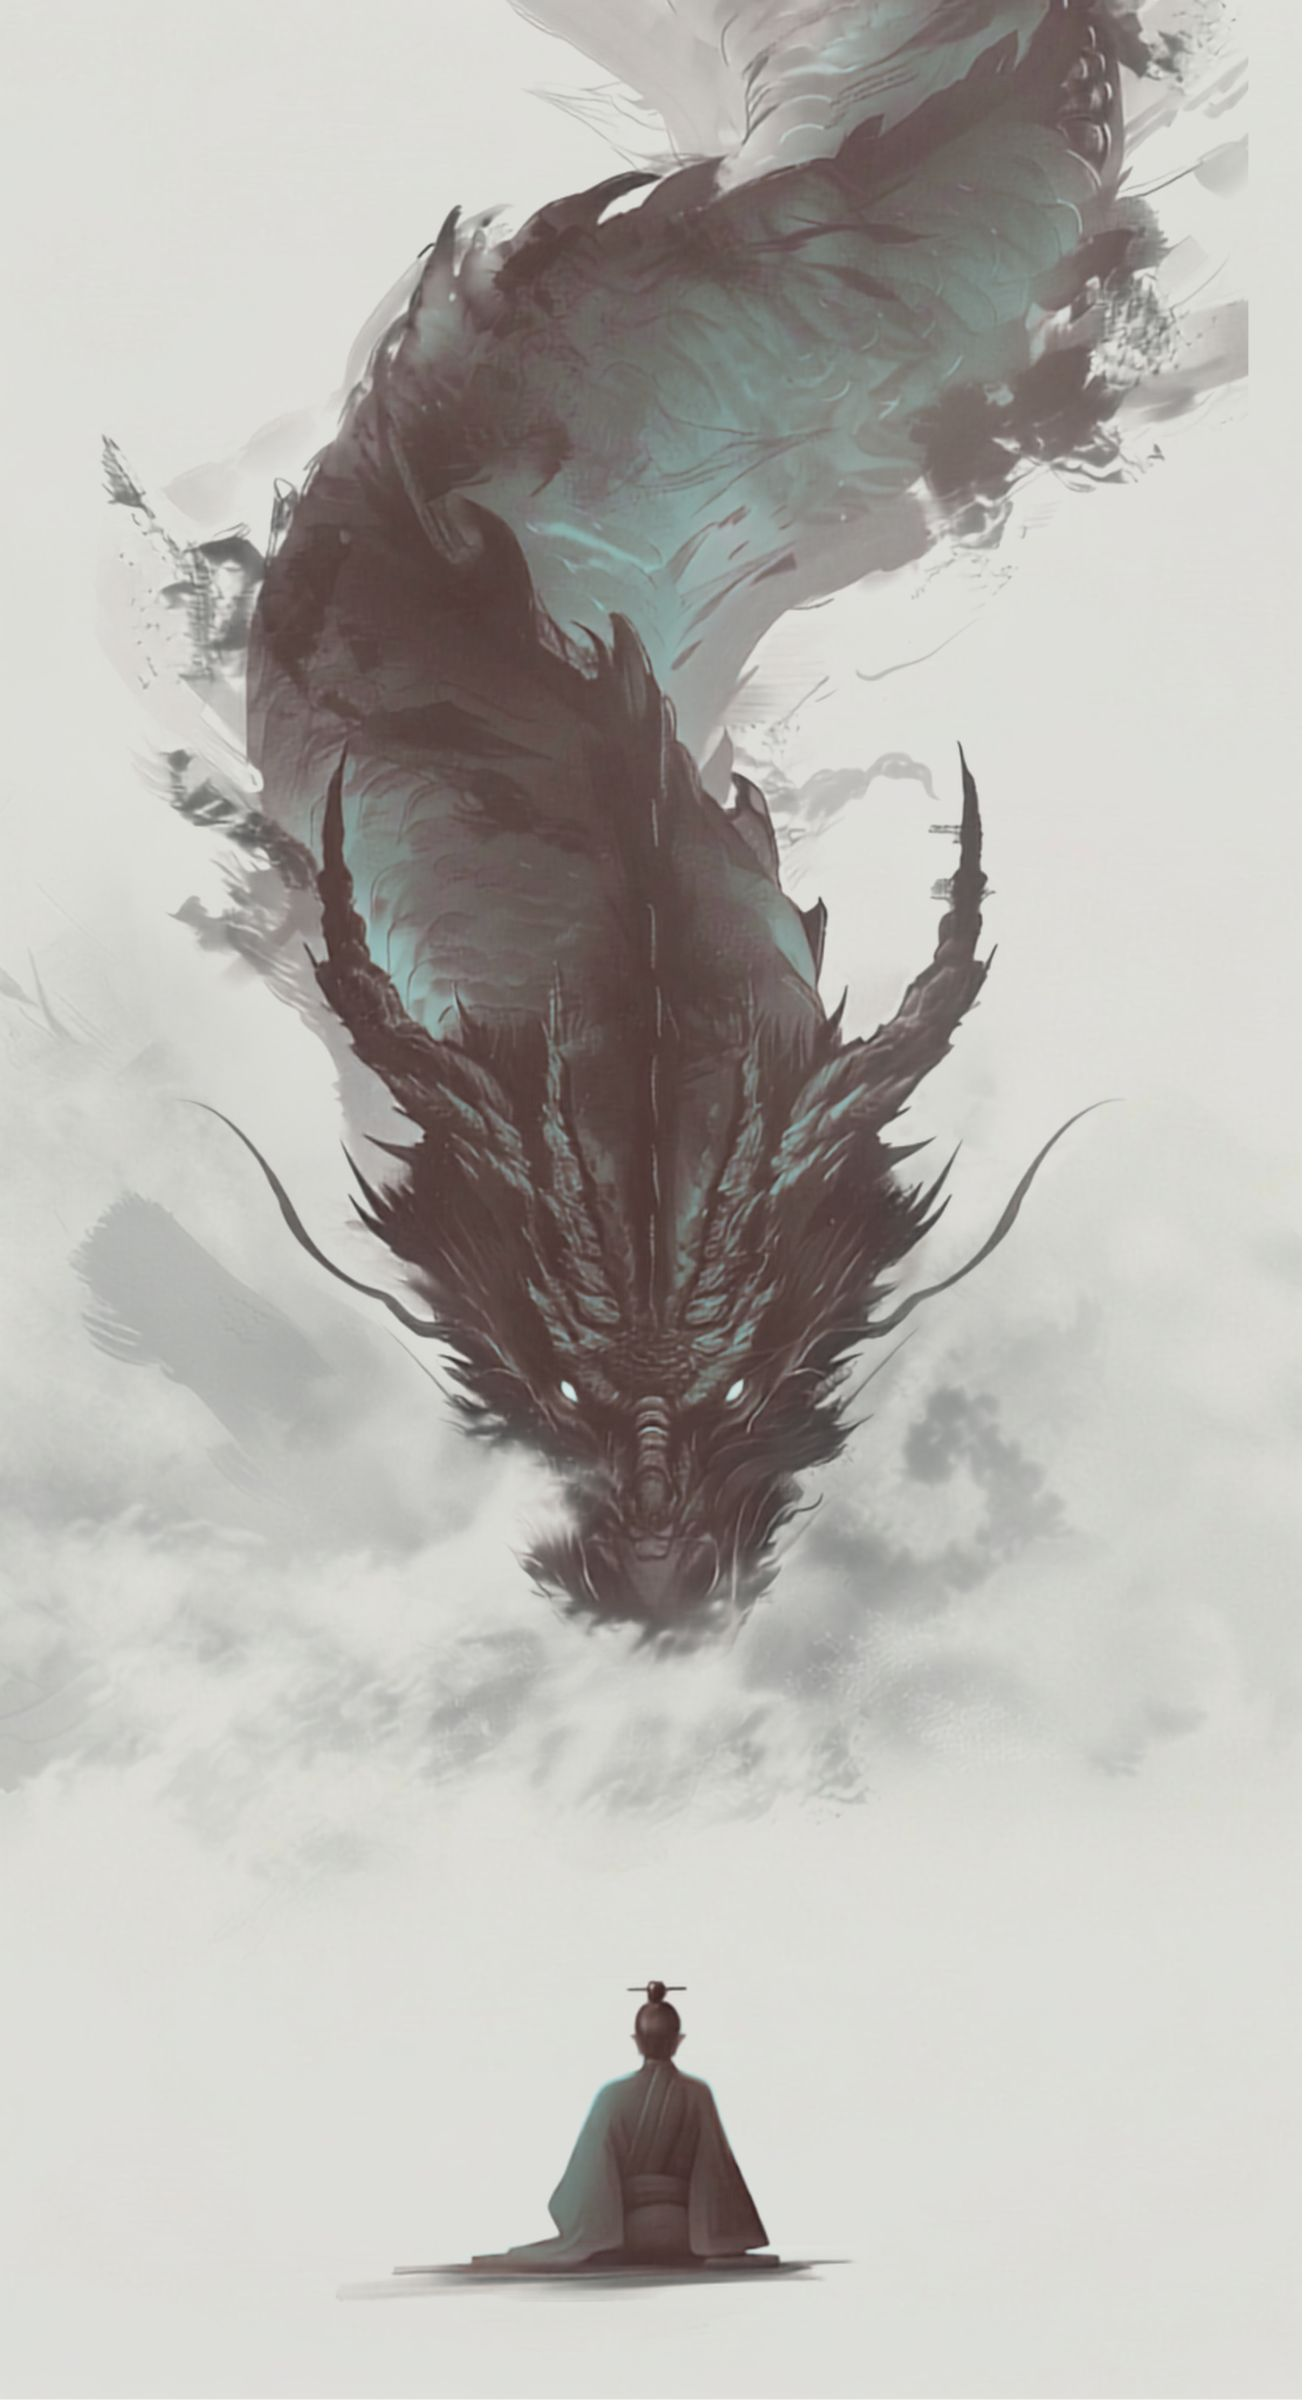
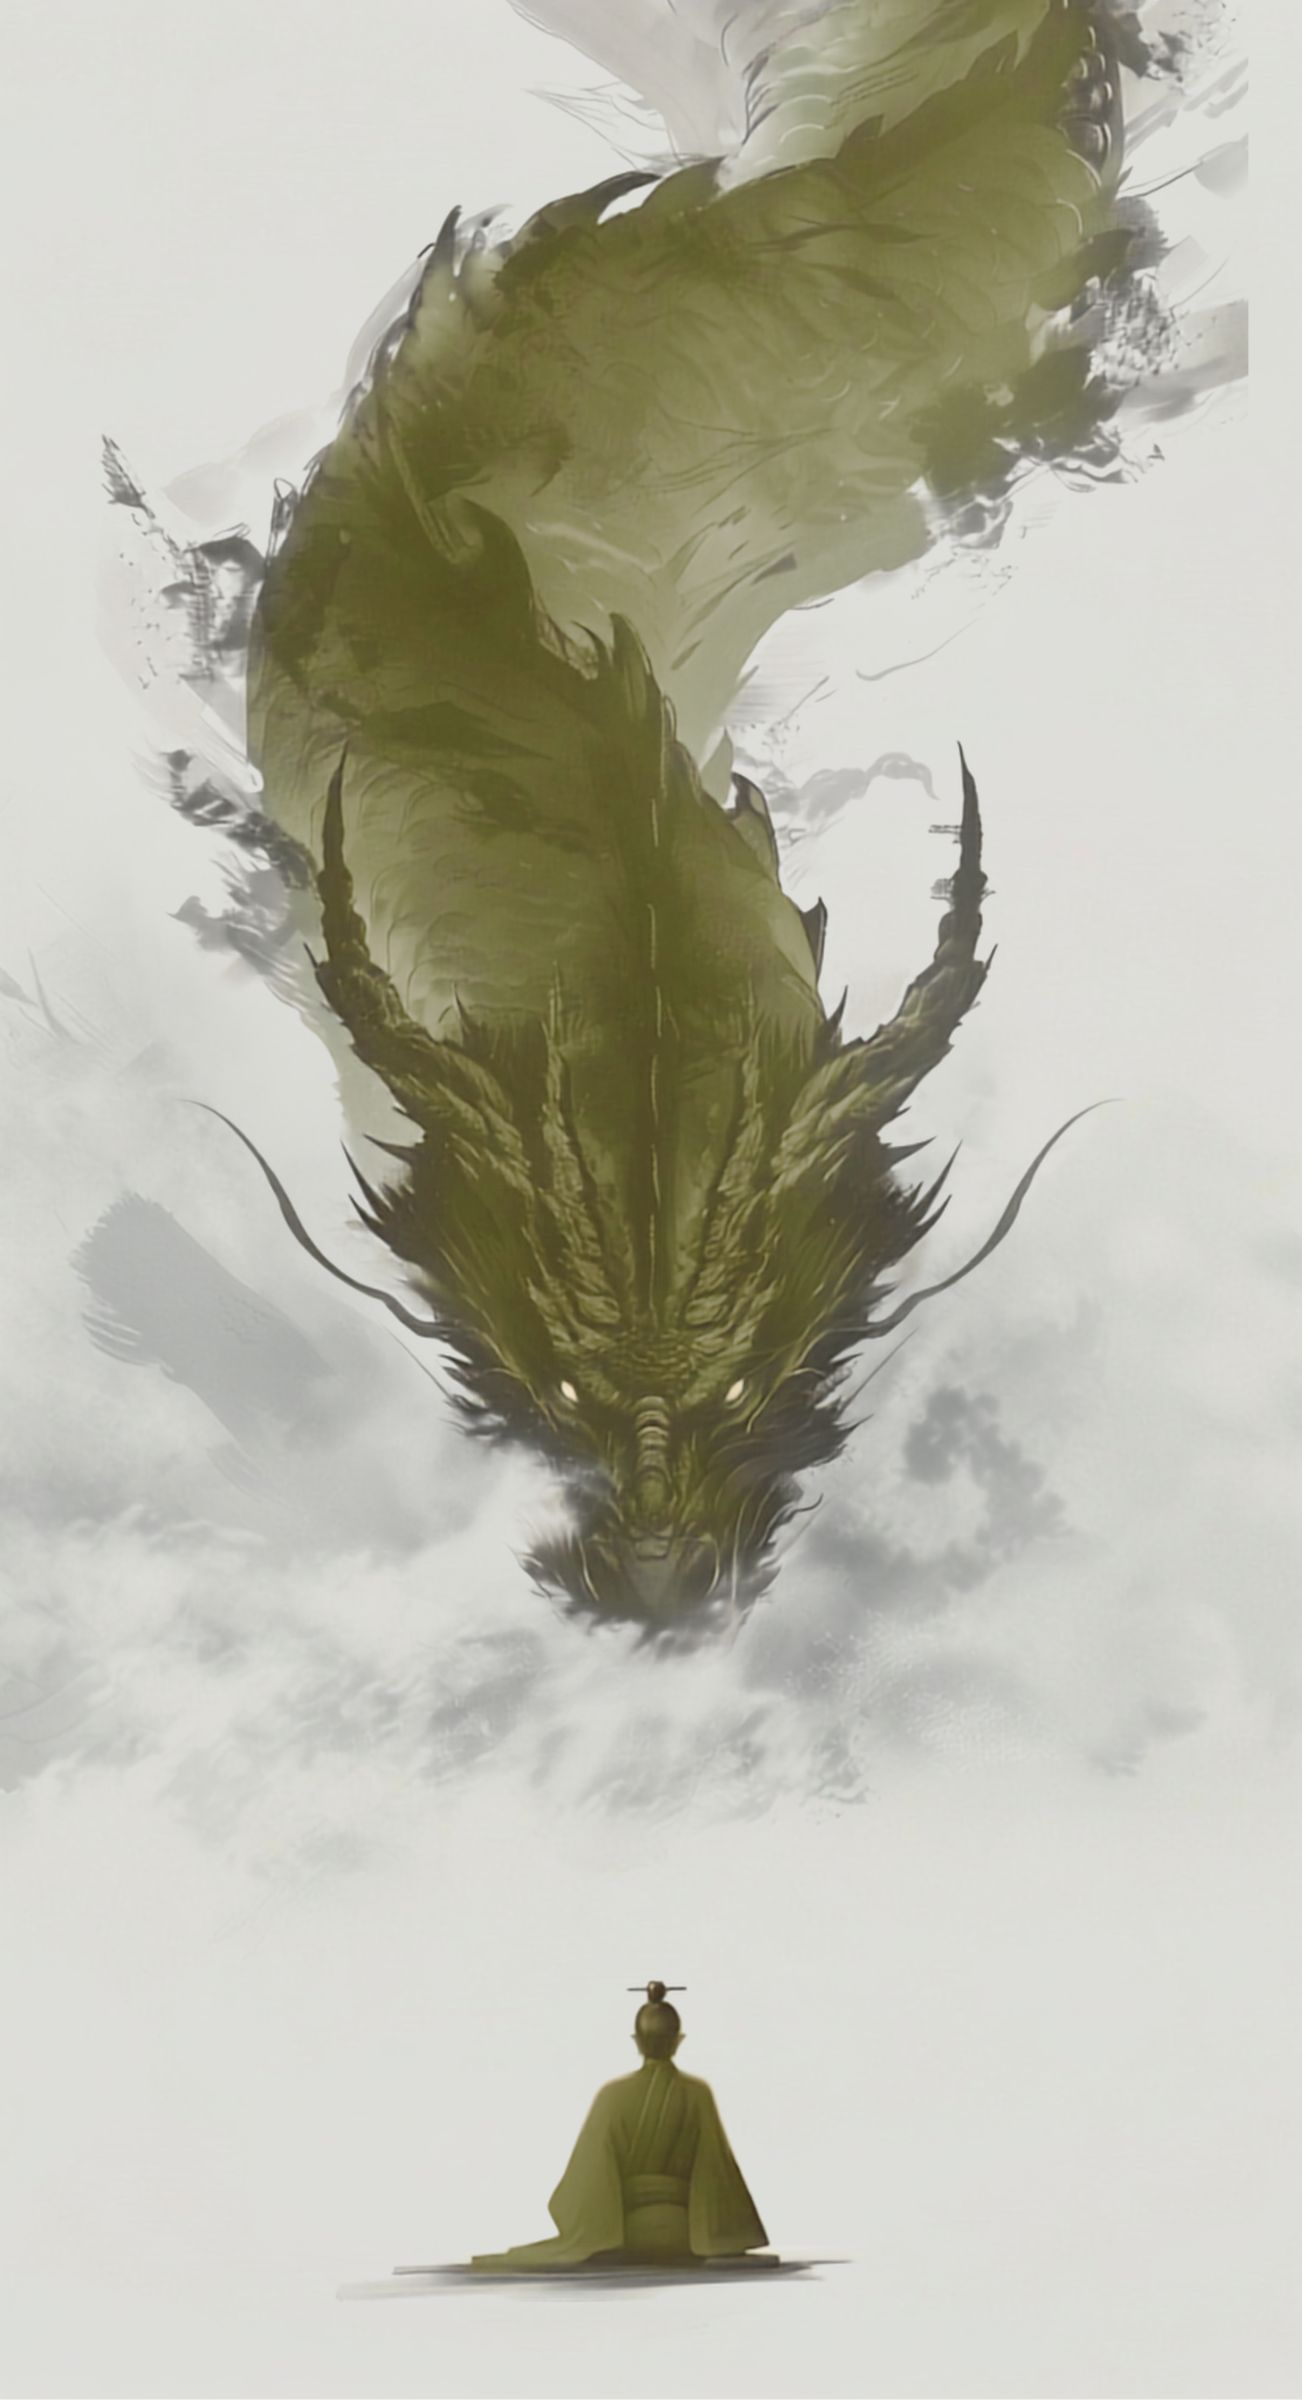
ultimate fix

Changed region(s): [[0.2181, 0.0, 0.8412, 0.625], [0.405, 0.8438, 0.5608, 0.9688]]

diff --git a/app/globals.css b/app/globals.css
@@ -20,12 +20,12 @@ body{ font-family:var(--serif); color:var(--ink); background:var(--mist);
 .dragons{ position:fixed; inset:0; z-index:-3; }
 .drag{ position:absolute; inset:0; background-size:cover; background-position:center top;
   opacity:0; transition:opacity 1s ease; }
-.drag.classic{ background-image:var(--img-classic); }
-.drag.vanishing{ background-image:var(--img-vanishing); }
-.drag.ultimate{ background-image:var(--img-ultimate); }
-.dragons.mode-classic   .drag.classic  { opacity:1; }
-.dragons.mode-vanishing .drag.vanishing{ opacity:1; }
-.dragons.mode-ultimate  .drag.ultimate { opacity:1; }
+.drag.d-classic{ background-image:var(--img-classic); }
+.drag.d-vanishing{ background-image:var(--img-vanishing); }
+.drag.d-ultimate{ background-image:var(--img-ultimate); }
+.dragons.mode-classic   .drag.d-classic  { opacity:1; }
+.dragons.mode-vanishing .drag.d-vanishing{ opacity:1; }
+.dragons.mode-ultimate  .drag.d-ultimate { opacity:1; }
 .dragons.mode-hidden .drag{ opacity:0; }
 .mist-fallback{ position:absolute; inset:0; z-index:-1;
   background:

diff --git a/app/page.tsx b/app/page.tsx
@@ -133,7 +133,7 @@ export default function Home() {
       <Defs />
       {/* full-bleed dragon: three cross-fading colour variants */}
       <div className={`dragons mode-${s.screen === "play" ? "hidden" : MODES[idx].id}`}>
-        <div className="drag classic" /><div className="drag vanishing" /><div className="drag ultimate" />
+        <div className="drag d-classic" /><div className="drag d-vanishing" /><div className="drag d-ultimate" />
         <div className="mist-fallback" />
       </div>
       <Fog />